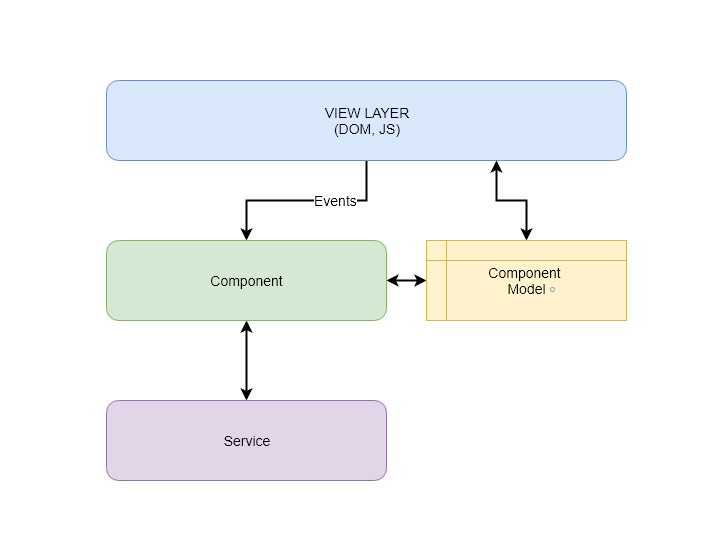
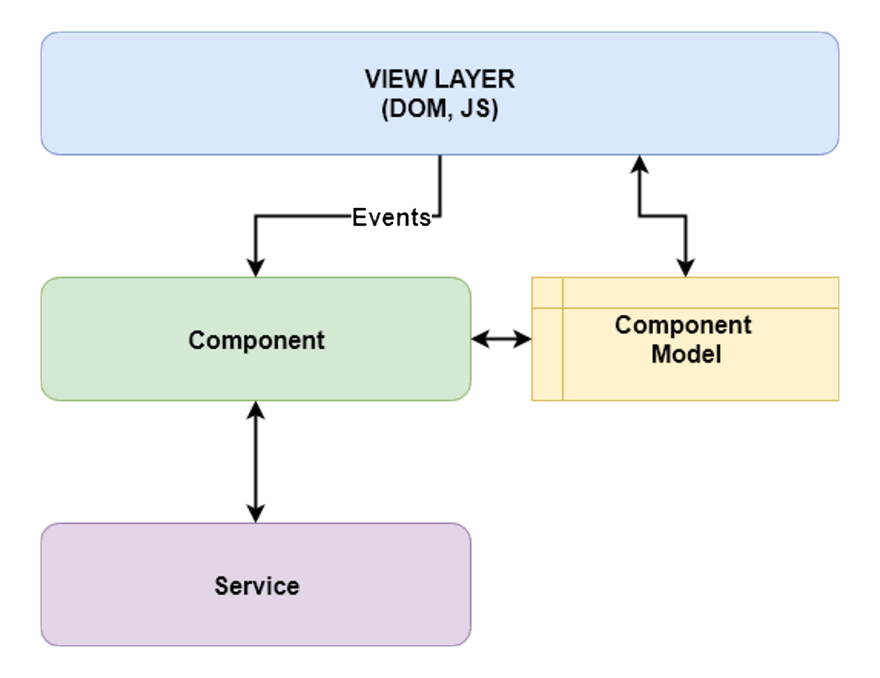
Image update

diff --git a/_posts/2018-08-26-web-stack-choose-enterprise.md b/_posts/2018-08-26-web-stack-choose-enterprise.md
@@ -50,7 +50,7 @@ author: stgolem
 
 Структура кода на Angular очень органично складывается в структуру CAB. Можно легко сопоставить WorkItem как Компонент, а Controller как Сервис. При этом визуальная часть точно так же остаётся отдельно и взаимодействие идёт за счёт событий по цепочке UI - WorkItem (Component) - Controller (Service).
 
-![Angular Component Service Model layers](/uploads/angular-component-service-model-layers.png)
+![Angular Component Service Model Layers](/uploads/angular-component-service-model-layers.png)
 
 Конечно, так можно сравнить любые подходы, но мне было важно понять, как это объяснить другим разработчикам. А использовать уже понятные аналогии гораздо эффективнее.
 
